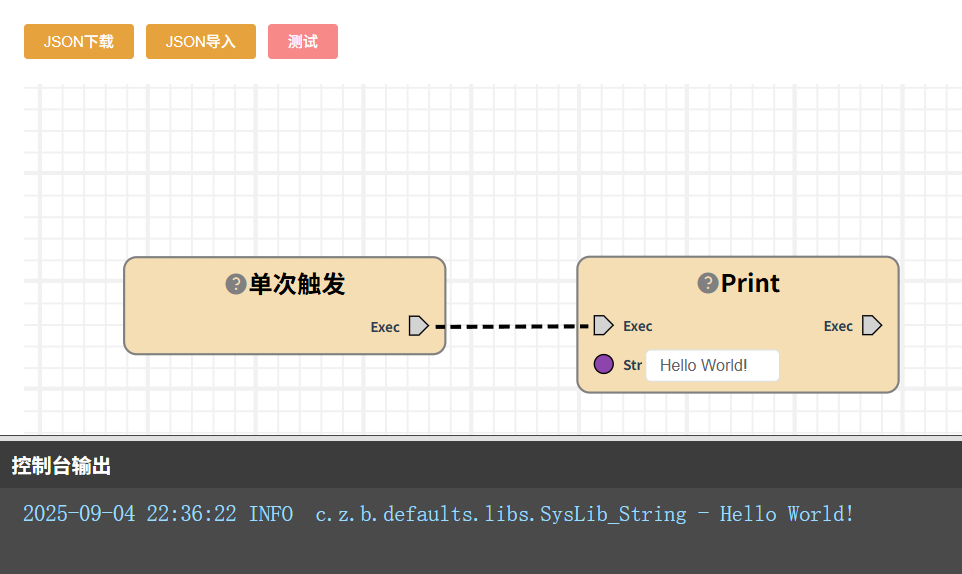
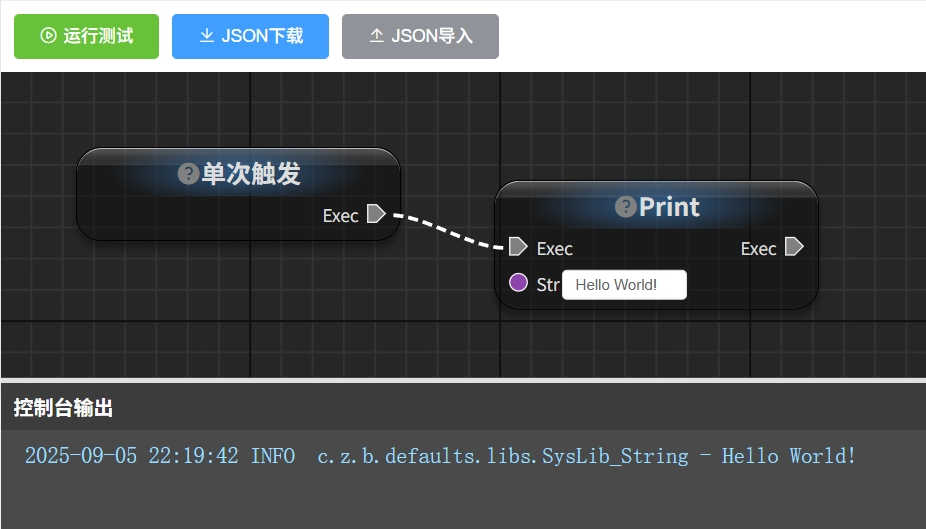
建设API文档页面

diff --git a/src/views/tutorial/DocumentView.vue b/src/views/tutorial/DocumentView.vue
@@ -1,12 +1,38 @@
 <template>
   <div class="about">
-    <h1>1.快速入门</h1>
-    <h4>1-1.HelloWorld</h4>
-    <p>①.进入"在线调试工具"菜单，在画布的空白部分按下右键，会出现节点菜单面板。</p>
-    <p>②.点击"Java常见类型->String->打印到控制台"，会将一个Print节点添加到画布。</p>
-    <p>③.连接"单次触发"节点与"Print"节点的Exec引脚</p>
-    <p>④.在"Print"节点的"Str"输入框中，输入"Hello World!"</p>
-    <p>⑤.点击左上角的"测试"按钮，此时在下方的"控制台输出"中，你将观察到有字符串被打印</p>
-    <img src="../../assets/pictures/1-1-001.png" alt=""/>
+    <el-card class="box-card">
+      <h1>1 快速入门</h1>
+
+      <h4>1.1 技术选型</h4>
+      <p>Java8 + spring-boot 2.7.x + vue.js v2</p>
+
+      <h4>1.2 HelloWorld</h4>
+      <p>①.进入"在线调试工具"菜单，在画布的空白部分按下右键，会出现节点菜单面板。</p>
+      <p>②.点击"Java常见类型->String->打印到控制台"，会将一个Print节点添加到画布。</p>
+      <p>③.连接"单次触发"节点与"Print"节点的Exec引脚。</p>
+      <p>④.在"Print"节点的"Str"输入框中，输入"Hello World!"。</p>
+      <p>⑤.点击左上角的"运行测试"按钮，此时在下方的"控制台输出"中，你将观察到有字符串被打印。</p>
+      <img src="../../assets/pictures/1-1-001.png" alt=""/>
+
+      <h1>2 功能介绍</h1>
+
+      <h4>2.1 数据类型</h4>
+      <p>①.支持任意的Java类型，但是需要注意：使用包装类型代替原始类型（也就是Integer代替int使用）。后面讲到具体实现的时候会说明原因。</p>
+      <p>②.常用的数据类型会用不同颜色标注。</p>
+      <img src="../../assets/pictures/2-1-001.png" alt=""/>
+      <p>③.本系统具有严格的类型检查，不同的数据类型节点之间不能直接连接。除非使用类型转换，或者向上转为Object类型（Object是所有类的超类）。</p>
+      <p>④.常用的数据类型例如Boolean、Integer、LocalDateTime等，可以通过前端的checkbox、input等组件赋予具体的值。</p>
+      <p>⑤.节点中的参数连接支持多级，一个节点的输入可能来自另一个节点的输出，而那个节点的输入可能又来自其他的节点。</p>
+      <img src="../../assets/pictures/2-1-002.png" alt=""/>
+      <p>⑥.支持用户扩展自定义类型，包括Class类和Enum枚举，将在后面的注解系统讲到。</p>
+
+      <h4>2.2 控制节点</h4>
+      <p>①.内置常见的流程节点，Branch、While、ForLoop等。</p>
+      <p>②.循环节点支持自动回跳，无需再次手动连接到循环起点。</p>
+      <p>③.Switch节点需要配合Enum枚举使用。</p>
+      <img src="../../assets/pictures/2-2-001.png" alt=""/>
+    </el-card>
   </div>
 </template>
+<script setup lang="ts">
+</script>

diff --git a/src/views/management/ProgramDetailView.vue b/src/views/management/ProgramDetailView.vue
@@ -1,19 +1,32 @@
 <template>
-  <div style="width: 100%; height: calc(100% - 40px);">
-    <el-button type="warning" @click="saveJson">JSON下载</el-button>
-    <el-upload
-        ref="upload"
-        action=""
-        :auto-upload="false"
-        :on-change="handleUpdate"
-        :show-file-list="false"
-        accept=".json"
-        style="display: inline-block; margin-left: 10px; margin-right: 10px;">
-      <el-button type="warning">JSON导入</el-button>
-    </el-upload>
-    <el-button type="danger" @click="autoMatchTest">测试</el-button>
+  <div style="width: 100%; height: calc(100% - 60px);">
+    <div style="margin: 10px;">
+      <el-button
+          size="medium"
+          icon="el-icon-video-play"
+          type="success"
+          @click="autoMatchTest">运行测试
+      </el-button>
+      <el-button
+          size="medium"
+          type="primary"
+          icon="el-icon-download"
+          style="display: inline-block; margin-left: 10px;"
+          @click="saveJson">JSON下载
+      </el-button>
+      <el-upload
+          ref="upload"
+          action=""
+          :auto-upload="false"
+          :on-change="handleUpdate"
+          :show-file-list="false"
+          accept=".json"
+          style="display: inline-block; margin-left: 10px;">
+        <el-button size="medium" icon="el-icon-upload2" type="info">JSON导入</el-button>
+      </el-upload>
+    </div>
     <ProgramSettings :program="program" @submitProgram="submitProgram"/>
-    <div style="width: 100%; height: 100%; margin-top: 20px;">
+    <div style="width: 100%; height: 100%;">
       <div ref="editor" style="height: calc(100% - 150px);"></div>
       <LogConsole/>
     </div>

diff --git a/src/views/tutorial/PlayGroundView.vue b/src/views/tutorial/PlayGroundView.vue
@@ -1,18 +1,31 @@
 <template>
-  <div style="width: 100%; height: calc(100% - 40px);">
-    <el-button type="warning" @click="saveJson">JSON下载</el-button>
-    <el-upload
-        ref="upload"
-        action=""
-        :auto-upload="false"
-        :on-change="handleUpdate"
-        :show-file-list="false"
-        accept=".json"
-        style="display: inline-block; margin-left: 10px; margin-right: 10px;">
-      <el-button type="warning">JSON导入</el-button>
-    </el-upload>
-    <el-button type="danger" @click="autoMatchTest">测试</el-button>
-    <div style="width: 100%; height: 100%; margin-top: 20px;">
+  <div style="width: 100%; height: calc(100% - 60px);">
+    <div style="margin: 10px;">
+      <el-button
+          size="medium"
+          icon="el-icon-video-play"
+          type="success"
+          @click="autoMatchTest">运行测试
+      </el-button>
+      <el-button
+          size="medium"
+          type="primary"
+          icon="el-icon-download"
+          style="display: inline-block; margin-left: 10px;"
+          @click="saveJson">JSON下载
+      </el-button>
+      <el-upload
+          ref="upload"
+          action=""
+          :auto-upload="false"
+          :on-change="handleUpdate"
+          :show-file-list="false"
+          accept=".json"
+          style="display: inline-block; margin-left: 10px;">
+        <el-button size="medium" icon="el-icon-upload2" type="info">JSON导入</el-button>
+      </el-upload>
+    </div>
+    <div style="width: 100%; height: 100%;">
       <div ref="editor" style="height: calc(100% - 150px);"></div>
       <LogConsole/>
     </div>

diff --git a/src/assets/style.css b/src/assets/style.css
@@ -1,4 +1,8 @@
 /*覆盖element-ui样式*/
+.el-main {
+    padding: 0;
+}
+
 .el-input-number.is-without-controls .el-input__inner {
     text-align: left;
     padding-left: 10px;
@@ -53,4 +57,46 @@
 .subitems {
     width: 200px !important;
     text-align: left !important;
+}
+
+/* 覆盖 Rete.js ContextMenu 默认样式 */
+.menu {
+    width: 220px !important;
+    border: 1px solid #000 !important;
+    border-radius: 15px !important;
+    background-color: #222222 !important;
+    box-shadow: 0 5px 8px rgba(0, 0, 0, .35);
+    padding: 6px;
+    box-sizing: border-box;
+    font-family: "Montserrat", sans-serif;
+    backdrop-filter: blur(4px);
+}
+
+.block {
+    color: #dddddd !important;
+    border-bottom: 1px solid #000000 !important;
+    background-color: #444444 !important;
+    cursor: pointer;
+    box-sizing: border-box;
+    width: 100%;
+    font-size: 15px;
+    /*font-weight: 300;*/
+    border-radius: 8px;
+    transition: background 0.2s, color 0.2s;
+    position: relative;
+    z-index: 1;
+}
+
+.content {
+    padding: 4px 0;
+    background-color: #444444 !important;
+    color: white;
+}
+
+.subitems {
+    border: 1px solid #000;
+    border-radius: 12px;
+    background-color: hsla(0, 0%, 6%, 0.85);
+    box-shadow: 0 4px 6px rgba(0, 0, 0, .25);
+    z-index: 10;
 }

diff --git a/src/core/Editor.js b/src/core/Editor.js
@@ -520,6 +520,8 @@ function buildOutputParamControl(editor, area, node, param, savedJson = undefine
 }
 
 async function loadFromJSON(editor, area, savedJson) {
+    // 导入前删除所有节点和连接
+    await editor.clear();
     for (let i = 0; i < savedJson.nodes.length; i++) {
         const info = savedJson.nodes[i];
         try {

diff --git a/src/components/graph/CustomNode.vue b/src/components/graph/CustomNode.vue
@@ -216,7 +216,7 @@ export default {
   .output-title {
     color: #dddddd;
     font-family: "Montserrat", sans-serif !important;
-    font-weight: 300;
+    //font-weight: 300;
   }
 
   .input-title,

diff --git a/src/components/controls/DateInput.vue b/src/components/controls/DateInput.vue
@@ -1,5 +1,6 @@
 <template>
   <el-date-picker
+      placeholder="请选择"
       style="width: 100px"
       @input="onChange"
       @pointerdown.native.stop

diff --git a/src/components/controls/LocalDateTimeInput.vue b/src/components/controls/LocalDateTimeInput.vue
@@ -1,5 +1,6 @@
 <template>
   <el-date-picker
+      placeholder="请选择"
       style="width: 100px"
       @input="onChange"
       @pointerdown.native.stop

diff --git a/src/components/controls/StringInput.vue b/src/components/controls/StringInput.vue
@@ -1,5 +1,6 @@
 <template>
   <el-input
+      placeholder="请输入"
       style="width: 100px"
       @input="onChange"
       @pointerdown.native.stop

diff --git a/src/assets/vars.sass b/src/assets/vars.sass
@@ -1,3 +1,3 @@
-$node-width: 240px
+$node-width: 260px
 $socket-margin: 4px
 $socket-size: 16px
